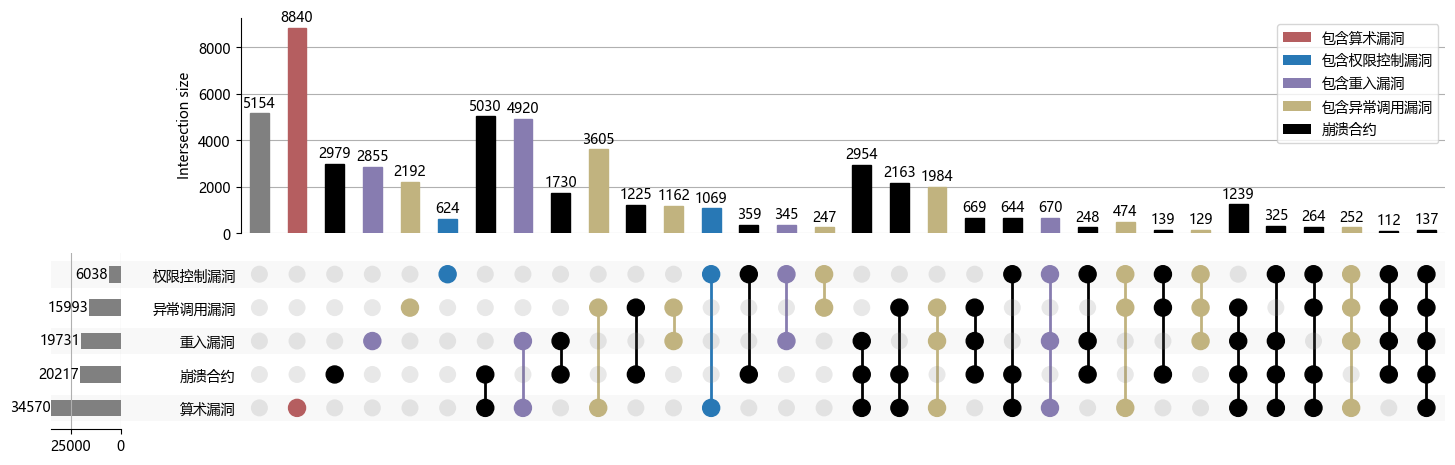
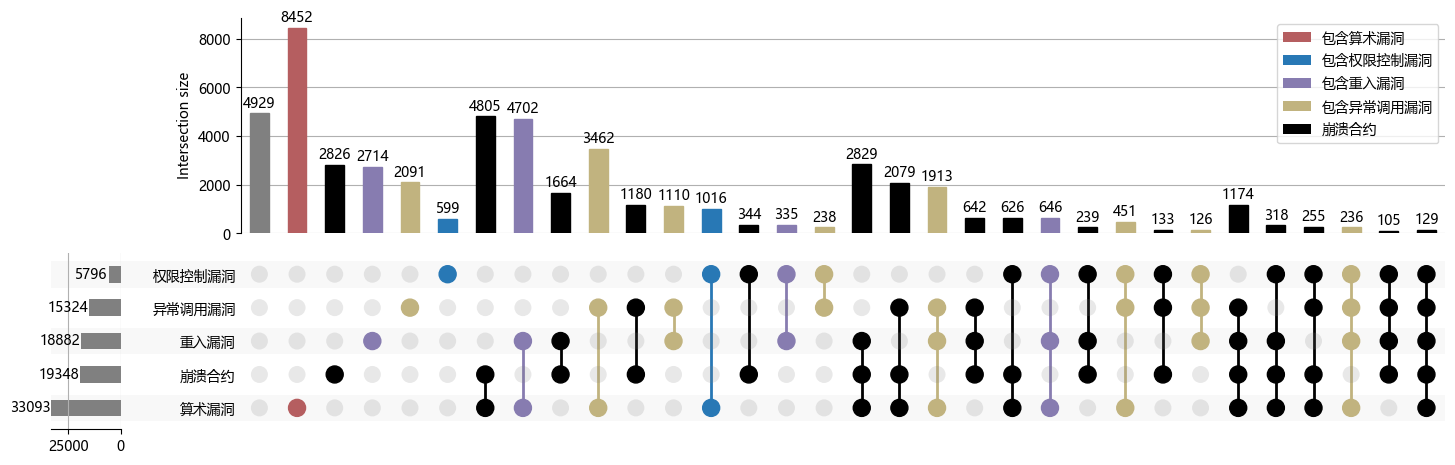
第五章&第六章review

diff --git a/body/graduate/chapter5.tex b/body/graduate/chapter5.tex
@@ -16,7 +16,7 @@
 
 % \textcolor{red}{这里可能要补充一些运行时的信息作为特征，不然可能会被喷：为什么同样的特征既可以用来检测漏洞也可以用来检测运行时异常？}
 \subsection{静态代码指标优化}
-在数据集方面，尽管\autoref{sec:基于静态度量定义专家特征}提出的34个静态代码指标能有效的表达程序的结构特征，但是对于智能合约运行时崩溃预测工作来说，有些指标对于合约执行逻辑的表达能力有限，因此本节特对34个静态代码指标中Solidity维度的指标进行补充，并且删去一些相关性不大的指标，最终得到了25个静态代码指标，具体如\autoref{tab:new_metrics}所示。
+在数据集方面，尽管\autoref{sec:基于静态度量定义专家特征}提出的34个静态代码指标能有效的表达程序的结构特征，但是对于智能合约运行时崩溃预测任务来说，有些指标对于合约执行逻辑的表达能力有限，因此本节对Solidity维度的静态代码指标进行了补充，并且删去一些相关性不大的指标，最终得到了25个静态代码指标，具体如\autoref{tab:new_metrics}所示。
 \begin{table}[htbp]
     \caption{\label{tab:new_metrics}优化后的25个静态代码指标}
     \small
@@ -52,7 +52,7 @@
         \end{tabularx}
 \end{table}
 \subsection{数据集标注与分析}
-接下来要根据智能合约在以太坊中的交易情况对数据集进行标注，即确定一个合约是否会在被调用时发生异常而导致交易失败，本文称这些合约为崩溃合约。不同智能合约产生的交易数量差异较大，有些热门合约可能产生了成千上万笔交易，有些合约可能仅有3$\sim$5笔交易。Chen等人进行了一项研究\cite{chen2020understand}发现大约81\%的账户（96\%的智能合约账户和77\%的外部账户）在以太坊上的交易少于5次，也就是说大多数账户（尤其是智能合约账户）并不频繁发起交易。此外，我们在BigQuery平台上对以太坊上智能合约及其交易信息进行了分析，结果表明94.3\%的合约的交易数在30以下（包含30）。因此，我们选择30次交易作为基准对原数据集进行过滤，删去交易次数大于30的智能合约，最终我们得到了一个包含xxx份智能合约的数据集。
+接下来要根据智能合约在以太坊中的交易情况对数据集进行标注，即确定一个合约是否会在被调用时发生异常而导致交易失败，本文称这些合约为崩溃合约。不同智能合约产生的交易数量差异较大，有些热门合约可能产生了成千上万笔交易，有些合约可能仅有3$\sim$5笔交易。Chen等人进行了一项研究\cite{chen2020understand}发现大约81\%的账户\footnote{96\%的智能合约账户和77\%的外部账户}在以太坊上的交易少于5次，也就是说大多数账户，尤其是智能合约账户并不频繁发起交易。此外，我们在BigQuery平台上对以太坊上智能合约及其交易信息进行了分析，结果表明94.3\%的合约的交易数在30以下（包含30）。因此，我们选择30次交易作为基准对原数据集进行过滤，删去交易次数大于30的智能合约，最终我们得到了一个包含\num{52638}份智能合约的数据集。
 \begin{figure}[htbp]
     \centering
     \includegraphics[width=.5\linewidth]{pictures/crash_no_crash2}

diff --git a/body/graduate/chapter6.tex b/body/graduate/chapter6.tex
@@ -18,7 +18,7 @@
 
     \item 分析了智能合约因发生运行时异常导致交易失败的情况，以及探索了对智能合约进行运行时崩溃预测的方法。
 
-    当前，有关智能合约在运行时崩溃的研究工作寥寥无几，本文从Etherscan提供的API抓取以太坊交易的执行结果，标注了一个包含\num{54739}份智能合约的交易信息的数据集，并且分析了数据集中导致交易崩溃的不同原因。然后在智能合约漏洞检测工作的基础上，利用预训练模型对数据集中的智能合约进行运行时崩溃预测，实验结果表明，本文的方法可以在一定程度上预测出智能合约在运行时是否会崩溃。最后探究了智能合约的各种漏洞与运行时崩溃的关系，结果表明在本文研究的四种漏洞中，算术漏洞最有可能导致合约在运行时崩溃。
+    当前，有关智能合约在运行时崩溃的研究工作寥寥无几，本文从Etherscan提供的API抓取以太坊交易的执行结果，标注了一个包含\num{52368}份智能合约的交易信息的数据集，并且分析了数据集中导致交易崩溃的不同原因。然后在智能合约漏洞检测工作的基础上，利用预训练模型对数据集中的智能合约进行运行时崩溃预测，实验结果表明，本文的方法可以在一定程度上预测出智能合约在运行时是否会崩溃。最后探究了智能合约的各种漏洞与运行时崩溃的关系，结果表明在本文研究的四种漏洞中，算术漏洞最有可能导致合约在运行时崩溃。
 
 \end{enumerate}
 \section{未来展望}
